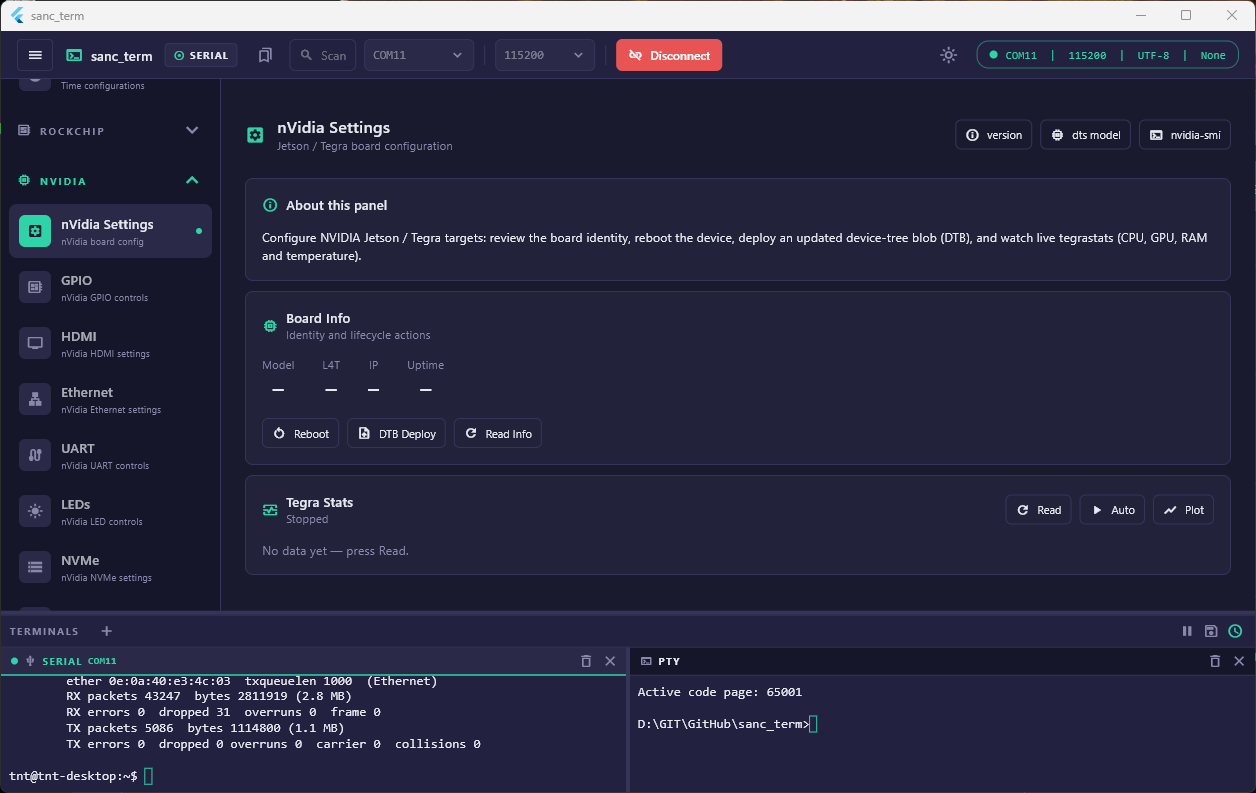
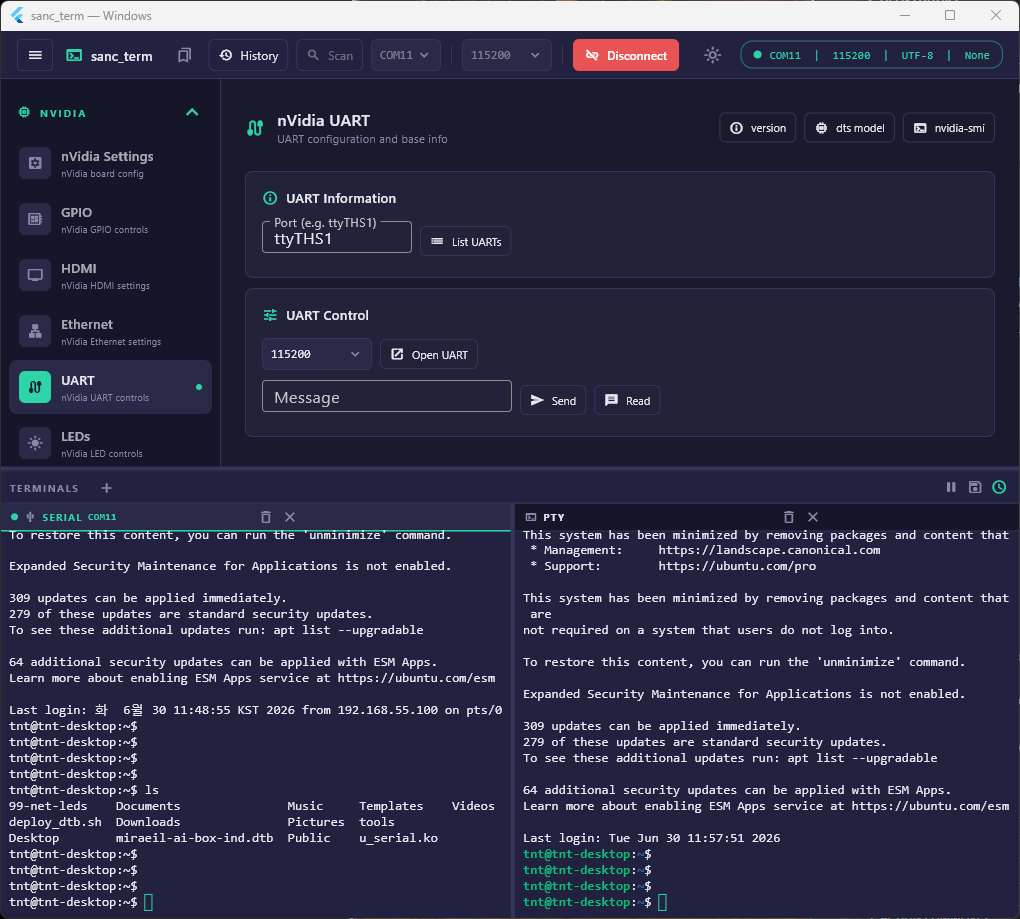
feat(credentials): implement terminal credentials management with Hive storage

diff --git a/lib/features/terminal/widgets/log_panel.dart b/lib/features/terminal/widgets/log_panel.dart
@@ -13,6 +13,7 @@ import 'package:sanc_term/features/connection/providers/board_console.dart';
 import 'package:sanc_term/features/connection/providers/serial_pane_provider.dart';
 import 'package:sanc_term/features/terminal/models/terminal_tab.dart';
 import 'package:sanc_term/features/terminal/providers/terminal_instances.dart';
+import 'package:sanc_term/features/terminal/providers/terminal_credentials_provider.dart';
 import 'package:sanc_term/services/file_logger_service.dart';
 
 class LogPanel extends ConsumerStatefulWidget {
@@ -428,6 +429,8 @@ class _Toolbar extends ConsumerWidget {
             ),
           ),
           const SizedBox(width: 8),
+          const _CredentialsFields(),
+          const SizedBox(width: 8),
           // Pause (global)
           _MiniBtn(
             icon: isPaused ? Icons.play_arrow : Icons.pause,
@@ -506,6 +509,136 @@ class _MiniBtn extends StatelessWidget {
         child: Padding(
           padding: const EdgeInsets.all(4),
           child: Icon(icon, size: 16, color: color),
+        ),
+      ),
+    );
+  }
+}
+
+class _CredentialsFields extends ConsumerStatefulWidget {
+  const _CredentialsFields();
+
+  @override
+  ConsumerState<_CredentialsFields> createState() => _CredentialsFieldsState();
+}
+
+class _CredentialsFieldsState extends ConsumerState<_CredentialsFields> {
+  late final TextEditingController _ipController;
+  late final TextEditingController _idController;
+  late final TextEditingController _passwordController;
+
+  @override
+  void initState() {
+    super.initState();
+    final initial = ref.read(terminalCredentialsNotifierProvider);
+    _ipController = TextEditingController(text: initial.ip);
+    _idController = TextEditingController(text: initial.id);
+    _passwordController = TextEditingController(text: initial.password);
+  }
+
+  @override
+  void dispose() {
+    _ipController.dispose();
+    _idController.dispose();
+    _passwordController.dispose();
+    super.dispose();
+  }
+
+  @override
+  Widget build(BuildContext context) {
+    ref.listen<TerminalCredentials>(
+      terminalCredentialsNotifierProvider,
+      (prev, next) {
+        if (next.ip != _ipController.text) {
+          _ipController.text = next.ip;
+        }
+        if (next.id != _idController.text) {
+          _idController.text = next.id;
+        }
+        if (next.password != _passwordController.text) {
+          _passwordController.text = next.password;
+        }
+      },
+    );
+
+    return Row(
+      mainAxisSize: MainAxisSize.min,
+      children: [
+        _buildField(
+          controller: _ipController,
+          hintText: 'IP Address',
+          width: 120,
+          onChanged: (val) => ref
+              .read(terminalCredentialsNotifierProvider.notifier)
+              .updateIp(val),
+        ),
+        const SizedBox(width: 6),
+        _buildField(
+          controller: _idController,
+          hintText: 'ID',
+          width: 80,
+          onChanged: (val) => ref
+              .read(terminalCredentialsNotifierProvider.notifier)
+              .updateId(val),
+        ),
+        const SizedBox(width: 6),
+        _buildField(
+          controller: _passwordController,
+          hintText: 'Password',
+          width: 100,
+          obscureText: true,
+          onChanged: (val) => ref
+              .read(terminalCredentialsNotifierProvider.notifier)
+              .updatePassword(val),
+        ),
+      ],
+    );
+  }
+
+  Widget _buildField({
+    required TextEditingController controller,
+    required String hintText,
+    required double width,
+    required ValueChanged<String> onChanged,
+    bool obscureText = false,
+  }) {
+    final c = context.colors;
+    return SizedBox(
+      width: width,
+      height: 24,
+      child: TextField(
+        controller: controller,
+        obscureText: obscureText,
+        onChanged: onChanged,
+        style: TextStyle(
+          fontFamily: 'Consolas',
+          fontSize: 11,
+          color: c.foreground,
+        ),
+        decoration: InputDecoration(
+          hintText: hintText,
+          hintStyle: TextStyle(
+            fontSize: 10,
+            color: c.muted.withValues(alpha: 0.7),
+          ),
+          contentPadding: const EdgeInsets.symmetric(
+            horizontal: 8,
+            vertical: 0,
+          ),
+          filled: true,
+          fillColor: c.surface,
+          border: OutlineInputBorder(
+            borderRadius: BorderRadius.circular(4),
+            borderSide: BorderSide(color: c.border),
+          ),
+          enabledBorder: OutlineInputBorder(
+            borderRadius: BorderRadius.circular(4),
+            borderSide: BorderSide(color: c.border),
+          ),
+          focusedBorder: OutlineInputBorder(
+            borderRadius: BorderRadius.circular(4),
+            borderSide: BorderSide(color: c.primary),
+          ),
         ),
       ),
     );

diff --git a/lib/features/terminal/providers/terminal_credentials_provider.dart b/lib/features/terminal/providers/terminal_credentials_provider.dart
@@ -1,0 +1,71 @@
+import 'package:flutter_riverpod/flutter_riverpod.dart';
+import 'package:hive_ce/hive.dart';
+import 'package:riverpod_annotation/riverpod_annotation.dart';
+
+part 'terminal_credentials_provider.g.dart';
+
+/// Credentials model for terminal connections.
+class TerminalCredentials {
+  final String ip;
+  final String id;
+  final String password;
+
+  const TerminalCredentials({
+    this.ip = '',
+    this.id = '',
+    this.password = '',
+  });
+
+  TerminalCredentials copyWith({
+    String? ip,
+    String? id,
+    String? password,
+  }) {
+    return TerminalCredentials(
+      ip: ip ?? this.ip,
+      id: id ?? this.id,
+      password: password ?? this.password,
+    );
+  }
+}
+
+@riverpod
+Future<Box<String>> terminalCredentialsBox(Ref ref) async {
+  return Hive.openBox<String>('terminal_credentials');
+}
+
+@riverpod
+class TerminalCredentialsNotifier extends _$TerminalCredentialsNotifier {
+  @override
+  TerminalCredentials build() {
+    _init();
+    return const TerminalCredentials();
+  }
+
+  Future<void> _init() async {
+    final box = await ref.read(terminalCredentialsBoxProvider.future);
+    state = TerminalCredentials(
+      ip: box.get('ip', defaultValue: '') ?? '',
+      id: box.get('id', defaultValue: '') ?? '',
+      password: box.get('password', defaultValue: '') ?? '',
+    );
+  }
+
+  Future<void> updateIp(String value) async {
+    state = state.copyWith(ip: value);
+    final box = await ref.read(terminalCredentialsBoxProvider.future);
+    await box.put('ip', value);
+  }
+
+  Future<void> updateId(String value) async {
+    state = state.copyWith(id: value);
+    final box = await ref.read(terminalCredentialsBoxProvider.future);
+    await box.put('id', value);
+  }
+
+  Future<void> updatePassword(String value) async {
+    state = state.copyWith(password: value);
+    final box = await ref.read(terminalCredentialsBoxProvider.future);
+    await box.put('password', value);
+  }
+}

diff --git a/lib/features/terminal/providers/terminal_credentials_provider.g.dart b/lib/features/terminal/providers/terminal_credentials_provider.g.dart
@@ -1,0 +1,50 @@
+// GENERATED CODE - DO NOT MODIFY BY HAND
+
+part of 'terminal_credentials_provider.dart';
+
+// **************************************************************************
+// RiverpodGenerator
+// **************************************************************************
+
+String _$terminalCredentialsBoxHash() =>
+    r'7a3730eb590a8e9631de54d4045a4992faead079';
+
+/// See also [terminalCredentialsBox].
+@ProviderFor(terminalCredentialsBox)
+final terminalCredentialsBoxProvider =
+    AutoDisposeFutureProvider<Box<String>>.internal(
+      terminalCredentialsBox,
+      name: r'terminalCredentialsBoxProvider',
+      debugGetCreateSourceHash: const bool.fromEnvironment('dart.vm.product')
+          ? null
+          : _$terminalCredentialsBoxHash,
+      dependencies: null,
+      allTransitiveDependencies: null,
+    );
+
+@Deprecated('Will be removed in 3.0. Use Ref instead')
+// ignore: unused_element
+typedef TerminalCredentialsBoxRef = AutoDisposeFutureProviderRef<Box<String>>;
+String _$terminalCredentialsNotifierHash() =>
+    r'a1851dfa502fbd3f00bc37a58a710cb498d2b0c0';
+
+/// See also [TerminalCredentialsNotifier].
+@ProviderFor(TerminalCredentialsNotifier)
+final terminalCredentialsNotifierProvider =
+    AutoDisposeNotifierProvider<
+      TerminalCredentialsNotifier,
+      TerminalCredentials
+    >.internal(
+      TerminalCredentialsNotifier.new,
+      name: r'terminalCredentialsNotifierProvider',
+      debugGetCreateSourceHash: const bool.fromEnvironment('dart.vm.product')
+          ? null
+          : _$terminalCredentialsNotifierHash,
+      dependencies: null,
+      allTransitiveDependencies: null,
+    );
+
+typedef _$TerminalCredentialsNotifier =
+    AutoDisposeNotifier<TerminalCredentials>;
+// ignore_for_file: type=lint
+// ignore_for_file: subtype_of_sealed_class, invalid_use_of_internal_member, invalid_use_of_visible_for_testing_member, deprecated_member_use_from_same_package

diff --git a/lib/core/router/app_router.dart b/lib/core/router/app_router.dart
@@ -1,6 +1,7 @@
 import 'package:flutter/material.dart';
 import 'package:flutter_riverpod/flutter_riverpod.dart';
 import 'package:go_router/go_router.dart';
+import 'package:hive_ce/hive.dart';
 import 'package:riverpod_annotation/riverpod_annotation.dart';
 import 'package:sanc_term/core/theme/sanc_term_theme.dart';
 import 'package:sanc_term/features/home/home_screen.dart';
@@ -11,10 +12,13 @@ part 'app_router.g.dart';
 
 @Riverpod(keepAlive: true)
 GoRouter appRouter(Ref ref) {
+  final box = Hive.box<String>('app_settings');
+  final lastRoute = box.get('last_route', defaultValue: '/home') ?? '/home';
+
   final router = GoRouter(
-    initialLocation: '/home',
+    initialLocation: lastRoute,
     routes: [
-      GoRoute(path: '/', redirect: (_, __) => '/home'),
+      GoRoute(path: '/', redirect: (_, __) => lastRoute),
       ShellRoute(
         builder: (ctx, state, child) => HomeScreen(child: child),
         routes: [
@@ -38,6 +42,16 @@ GoRouter appRouter(Ref ref) {
       ),
     ],
   );
+
+  // Persist the route when it changes
+  router.routerDelegate.addListener(() {
+    final route = router.routerDelegate.currentConfiguration;
+    final uriStr = route.uri.toString();
+    if (uriStr.startsWith('/home')) {
+      box.put('last_route', uriStr);
+    }
+  });
+
   ref.onDispose(router.dispose);
   return router;
 }

diff --git a/lib/features/panels/nvidia/nv_nvme.dart b/lib/features/panels/nvidia/nv_nvme.dart
@@ -51,7 +51,10 @@ class _NvNvmePanelState extends ConsumerState<NvNvmePanel> {
             crossAxisAlignment: CrossAxisAlignment.start,
             children: [
               SelectableText(
-                'sudo apt update && sudo apt install -y fio hdparm',
+                '''sudo apt update && sudo apt install -y fio hdparm
+sudo add-apt-repository ppa:jonmagon/kdiskmark
+sudo apt install -y kdiskmark
+                ''',
                 style: TextStyle(
                   fontSize: 11,
                   fontFamily: 'Consolas',

diff --git a/lib/main.dart b/lib/main.dart
@@ -28,6 +28,7 @@ Future<void> _initHive() async {
   }
   await Directory(hivePath).create(recursive: true);
   Hive.init(hivePath);
+  await Hive.openBox<String>('app_settings');
 }
 
 Future<void> _initWindow() async {

diff --git a/README.md b/README.md
@@ -86,6 +86,7 @@ So the flow is:
     - uart message send to selected uart window
 - 2026.06.30
   - History button added at connection_bar for efficient history navigation
+  - save current panel and restore previously activated panel at start up
 
 ## Info
 
